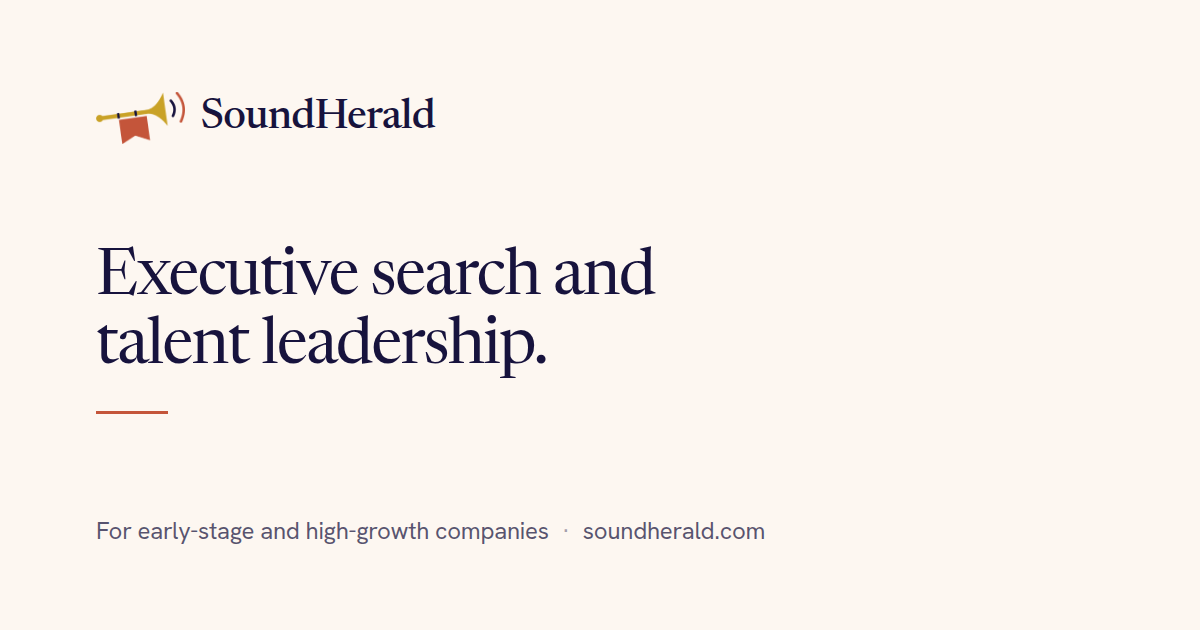
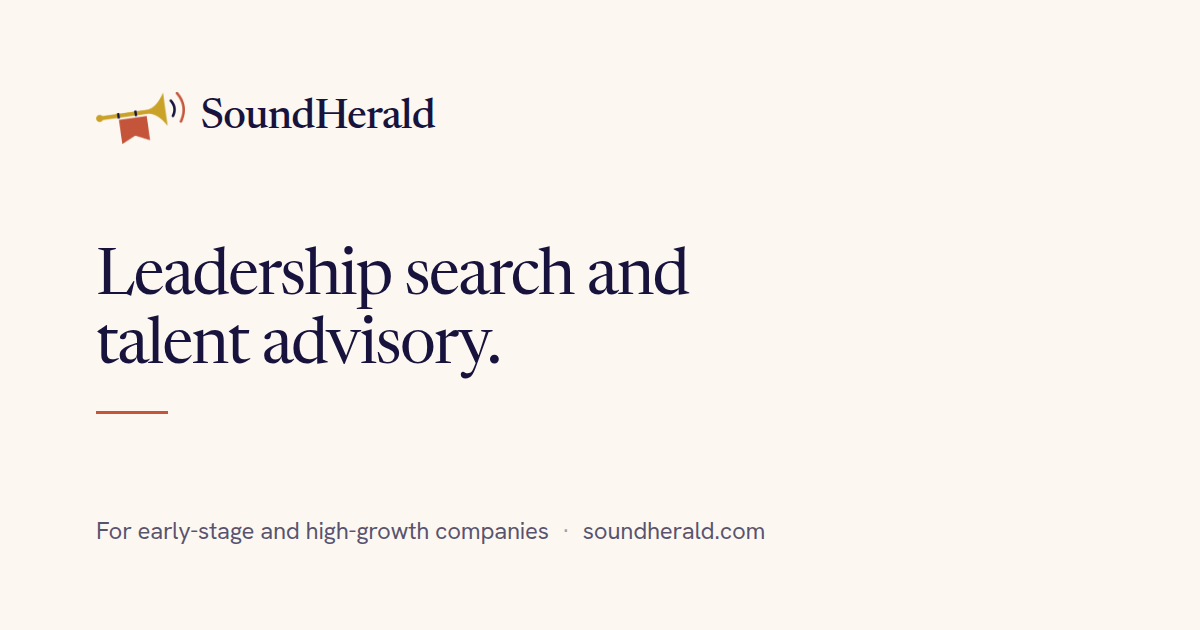
Rewrite the hero around leadership search and talent advisory.
The headline wraps to two lines on desktop, the preview card uses the same line, and the metadata matches.

Changed region(s): [[0.0925, 0.3921, 0.5858, 0.6032]]

diff --git a/index.html b/index.html
@@ -3,10 +3,10 @@
 <head>
 <meta charset="utf-8">
 <meta name="viewport" content="width=device-width, initial-scale=1">
-<title>SoundHerald Consulting | Executive search and talent leadership</title>
-<meta name="description" content="Executive search for senior engineering, product, and design leaders, and people leadership for early-stage and high-growth companies. Backed by 20+ years of talent experience at Block, Shopify, SoundCloud, and Relativity Space.">
+<title>SoundHerald Consulting | Leadership search and talent advisory</title>
+<meta name="description" content="Leadership search for senior engineering, product, and design roles, and talent advisory for early-stage and high-growth companies. Backed by 20+ years of talent experience at Block, Shopify, SoundCloud, and Relativity Space.">
 <meta property="og:title" content="SoundHerald Consulting">
-<meta property="og:description" content="Executive search for senior engineering, product, and design leaders, and people leadership for early-stage and high-growth companies. Backed by 20+ years of talent experience at Block, Shopify, SoundCloud, and Relativity Space.">
+<meta property="og:description" content="Leadership search for senior engineering, product, and design roles, and talent advisory for early-stage and high-growth companies. Backed by 20+ years of talent experience at Block, Shopify, SoundCloud, and Relativity Space.">
 <meta property="og:type" content="website">
 <meta property="og:url" content="https://soundherald.com/">
 <meta property="og:image" content="https://soundherald.com/assets/og-card.png">
@@ -15,7 +15,7 @@
 <meta property="og:image:alt" content="SoundHerald Consulting">
 <meta name="twitter:card" content="summary_large_image">
 <meta name="twitter:title" content="SoundHerald Consulting">
-<meta name="twitter:description" content="Executive search for senior engineering, product, and design leaders, and people leadership for early-stage and high-growth companies. Backed by 20+ years of talent experience at Block, Shopify, SoundCloud, and Relativity Space.">
+<meta name="twitter:description" content="Leadership search for senior engineering, product, and design roles, and talent advisory for early-stage and high-growth companies. Backed by 20+ years of talent experience at Block, Shopify, SoundCloud, and Relativity Space.">
 <meta name="twitter:image" content="https://soundherald.com/assets/og-card.png">
 <meta name="theme-color" content="#fdf7f1">
 <link rel="icon" href="assets/mark.png" type="image/png">
@@ -141,7 +141,7 @@ img, svg { display: block; }
   font-size: clamp(2.6rem, 5.1vw, 4.35rem);
   line-height: 1.06;
   letter-spacing: -0.03em;
-  max-width: 11em;
+  max-width: 18em;
   text-wrap: balance;
 }
 .lede {
@@ -151,6 +151,7 @@ img, svg { display: block; }
   line-height: 1.55;
   text-wrap: pretty;
 }
+.lede .keep { white-space: nowrap; }
 .actions {
   display: flex;
   flex-wrap: wrap;
@@ -419,8 +420,8 @@ img, svg { display: block; }
 <main id="main">
 <section class="hero" aria-labelledby="hero-heading">
 <div class="wrap">
-<h1 id="hero-heading">The person you need isn't on LinkedIn applying to jobs.</h1>
-<p class="lede">We help early-stage and high-growth companies hire senior leaders and build the people infrastructure you'll need as you scale, from executive search and hiring processes to comp and equity.</p>
+<h1 id="hero-heading">Leadership search and talent advisory, from people who have sat in the seat.</h1>
+<p class="lede">We partner with <span class="keep">early-stage</span> and <span class="keep">high-growth</span> companies to hire senior engineering, product, and design leaders, and to build the hiring, comp, and people systems they need as they scale.</p>
 <div class="actions">
 <a class="cta" href="mailto:contact@soundherald.com?subject=Starting%20a%20conversation">Start a conversation</a>
 <a class="quiet" href="#sh-services">See what we do</a>
